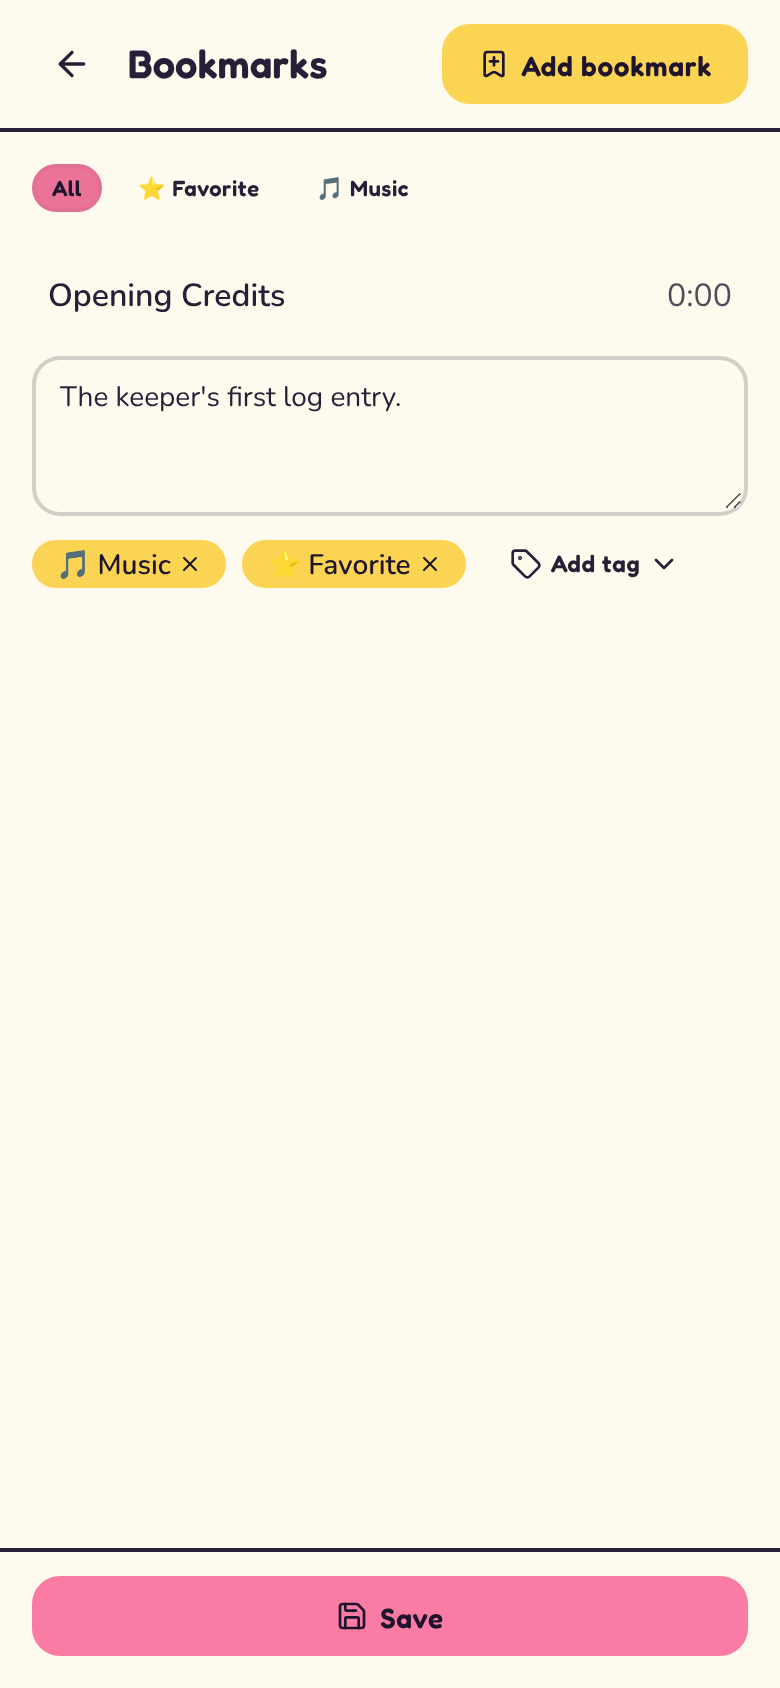
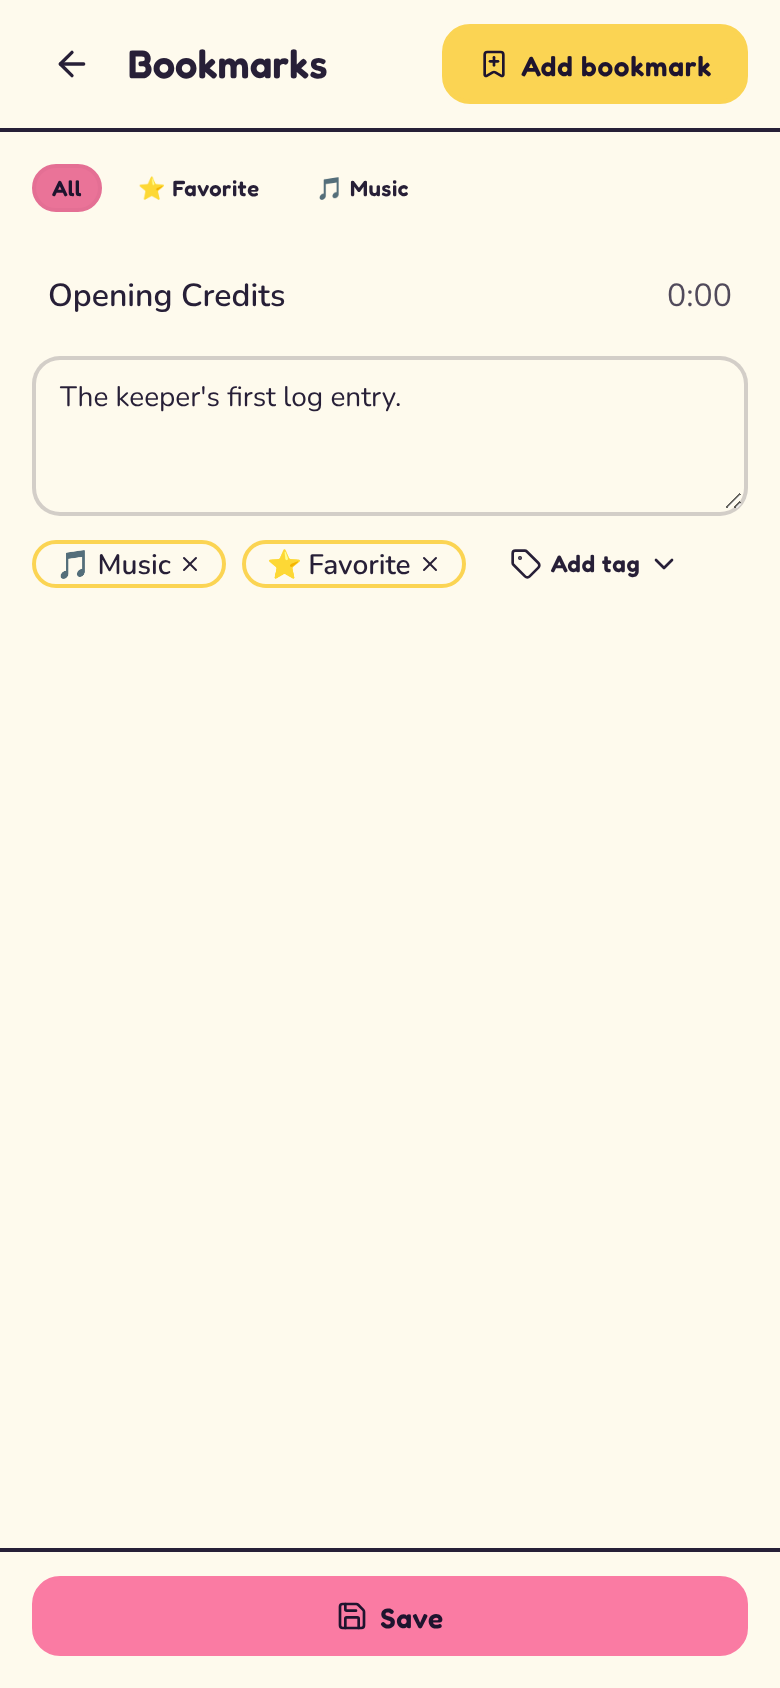
fix(ui): keep emoji legible on player tag chips
Yellow-filled chips hid yellow emoji such as a star. Chips now use the
card fill with a yellow border.

Claude-Session: https://claude.ai/code/session_018RK7Heq7p9kBygro4F2f4G

Changed region(s): [[0.3077, 0.3081, 0.5846, 0.3697], [0.0308, 0.3081, 0.2769, 0.3697]]

diff --git a/ui/src/screens/Player.tsx b/ui/src/screens/Player.tsx
@@ -263,7 +263,7 @@ function BookmarkItem(props: { mark: Bookmark; chapter: string; library: string[
       />
       <div className="flex flex-wrap items-center gap-2">
         {mark.tags.map((t) => (
-          <span key={t} className="badge badge-secondary gap-1 font-semibold">
+          <span key={t} className="badge gap-1 border-2 border-secondary bg-base-100 font-semibold">
             {t}
             <button
               type="button"
